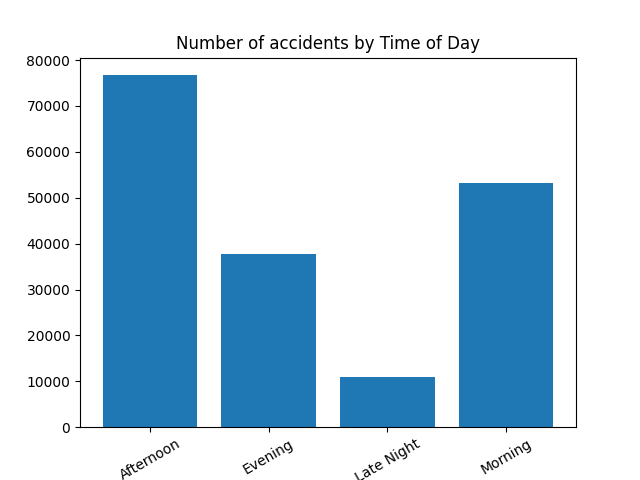
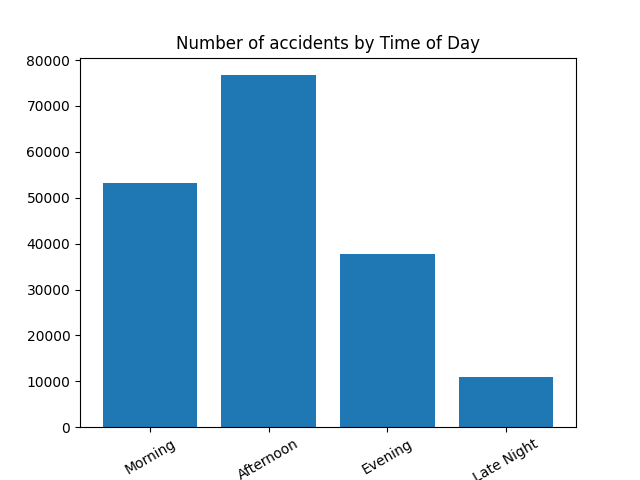
cleaned up task2

diff --git a/task2/task2_2.py b/task2/task2_2.py
@@ -19,7 +19,7 @@ def task2_2():
 
     time_occurrences_df = pd.DataFrame(list(time_occurrences.items()), columns = ['TIME_OF_DAY', 'ACCIDENT_FREQUENCY'])
 
-    time_occurrences_df = time_occurrences_df.set_index('TIME_OF_DAY')
+    time_occurrences_df = time_occurrences_df.set_index('TIME_OF_DAY', drop=False)
     time_occurrences_df = time_occurrences_df.reindex(index=['Morning', 'Afternoon', 'Evening', 'Late Night'])
 
     # bar chart
@@ -85,13 +85,13 @@ def task2_2():
     grouped.plot(kind='bar', stacked=True, figsize=(10, 6), colormap='Set2')
 
 
-    #plt.title("Accidents by Time of Day across Days of the Week")
-    #plt.xlabel("Day of the Week")
-    #plt.ylabel("Number of Accidents")
-    #plt.xticks(rotation=45)
-    #plt.legend(title="Time of Day", bbox_to_anchor=(1.05, 1), loc='upper left')
-    #plt.tight_layout()
-    #plt.savefig('task2_2_stackbar.png')
+    plt.title("Accidents by Time of Day across Days of the Week")
+    plt.xlabel("Day of the Week")
+    plt.ylabel("Number of Accidents")
+    plt.xticks(rotation=45)
+    plt.legend(title="Time of Day", bbox_to_anchor=(1.05, 1), loc='upper left')
+    plt.tight_layout()
+    plt.savefig('task2_2_stackbar.png')
 
 # categorize accident time
 def sort_time(time):
@@ -107,8 +107,6 @@ def sort_time(time):
             return "Evening"
         else:
             return "Late Night"
-
-task2_2()
 
 
 

diff --git a/task1/task1_1.py b/task1/task1_1.py
@@ -38,12 +38,9 @@ def task1_1():
     sex_column = rdata["SEX"].values.reshape(-1, 1)
     onehot_encoder1 = OneHotEncoder(sparse_output=False)
     encoded_data1 = onehot_encoder1.fit_transform(sex_column)
-    #print(encoded_data1)
-    #print(onehot_encoder1.categories_)
 
     #Create new columns for SEX_M, SEX_F, SEX_U
     rdata[['SEX_Female', 'SEX_Male', 'SEX_Unknown']] = encoded_data1
-    #print(rdata)
 
 
     # One-Hot-Encoding the ROAD_USER_TYPE_DESC Column
@@ -51,13 +48,11 @@ def task1_1():
     user_column = rdata["ROAD_USER_TYPE_DESC"].values.reshape(-1, 1)
     onehot_encoder2 = OneHotEncoder(sparse_output=False)
     encoded_data2 = onehot_encoder2.fit_transform(user_column)
-    #print(encoded_data2)
-    #print(onehot_encoder2.categories_)
+
 
     #Create new columns
     rdata[['ROAD_USER_DESC_Bicyclists', 'ROAD_USER_DESC_Drivers','ROAD_USER_DESC_E-scooter_Rider','ROAD_USER_DESC_Motorcyclists',
         'ROAD_USER_DESC_Not_Known','ROAD_USER_DESC_Passengers','ROAD_USER_DESC_Pedestrians','ROAD_USER_DESC_Pillion_Passengers']] = encoded_data2
-    #print(rdata)
 
     # Task 1.1.3
 
@@ -84,6 +79,5 @@ def task1_1():
         else: return "Unknown"
 
     rdata["AGE_CATEGORY"] = rdata["AGE_GROUP"].apply(lambda x: converter(x))
-    #print(rdata)
 
     return(rdata)

diff --git a/task1/task1_2.py b/task1/task1_2.py
@@ -51,7 +51,6 @@ def task1_2():
 
     # Save the plot as a PNG file
     plt.savefig('task1_2_age.png', format='png') 
-    #plt.show()
 
     
     #Task 1.2.2
@@ -86,7 +85,6 @@ def task1_2():
     plt.subplots_adjust(wspace=0.6)
     
     plt.savefig('task1_2_driver.png', format='png')
-    #plt.show()
 
     # Task 1.2.3
 
@@ -129,18 +127,3 @@ def task1_2():
     plt.subplots_adjust(wspace=0.6)
 
     plt.savefig('task1_2_seat.png', format='png')
-    #plt.show()
-
-
-
-
-
-
-
-#task1_2()
-
-
-
-
-
-

diff --git a/task2/task2_1.py b/task2/task2_1.py
@@ -34,7 +34,7 @@ def task2_1():
     # remove stop words
     stop_words = set(stopwords.words('english'))
     
-    '''
+    ''' non-accident-related terms
     stop_words = [
         'a', 'an', 'the',
         'in', 'on', 'at', 'with', 'by', 'under', 'over', 'between', 'above', 'beneath',
@@ -89,5 +89,3 @@ def task2_1():
     plt.imshow(wordcloud, interpolation='bilinear')
     plt.axis('off')  # Turn off the axis
     plt.savefig('task2_1_word_cloud.png')
-
-task2_1()
